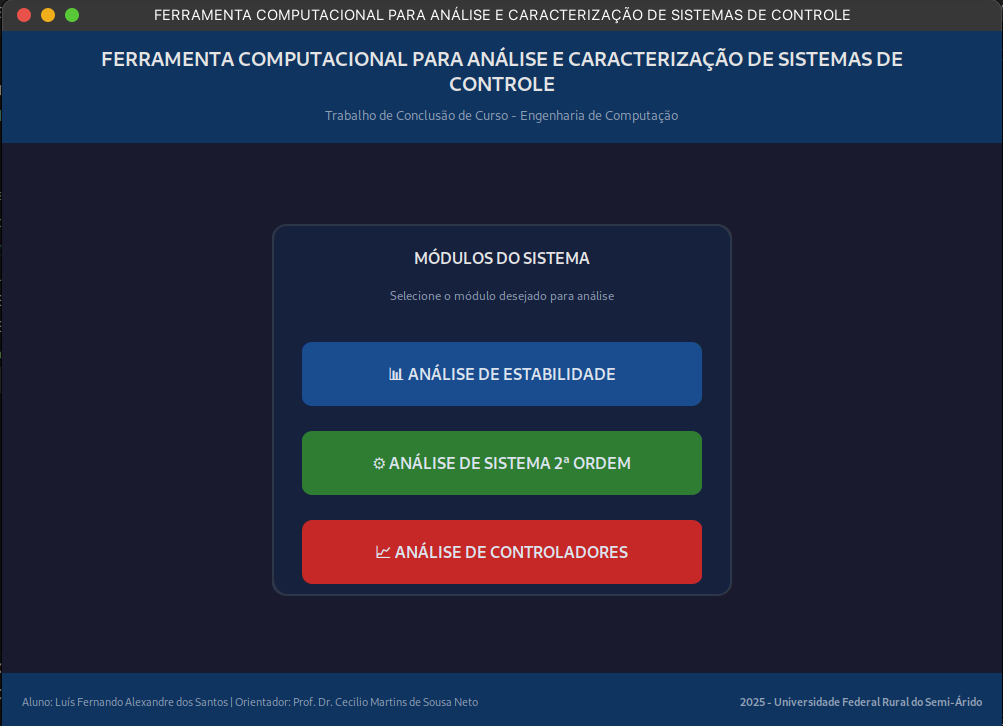
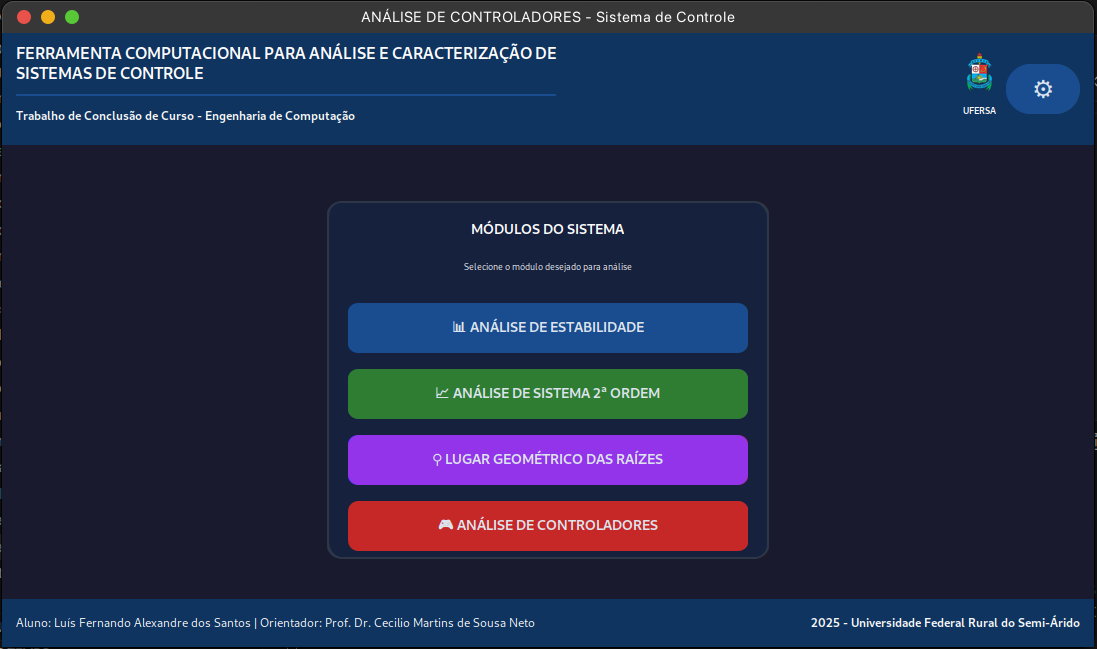
melhorias no Readme

diff --git a/README.md b/README.md
@@ -1,34 +1,77 @@
-# ⚙ Analisador de Sistemas de Controle de Segunda Ordem com PI, PD e PID ⚙
+# ⚙ Ferramenta Computacional para Análise de Sistemas de Controle ⚙
 
 ![Versão Python](https://img.shields.io/badge/python-3.10%2B-blue)
-[![License: MIT](https://img.shields.io/badge/License-MIT-yellow.svg)](https://opensource.org/licenses/MIT) **Trabalho de Conclusão de Curso - Engenharia de Computação**
+[![License: MIT](https://img.shields.io/badge/License-MIT-yellow.svg)](https://opensource.org/licenses/MIT)
+
+**Trabalho de Conclusão de Curso - Engenharia de Computação**
 *Aluno: Luís Fernando Alexandre dos Santos*
 *Orientador: Prof. Dr. Cecilio Martins de Sousa Neto*
 *Universidade Federal Rural do Semi-Árido - 2025*
 
 ## 📜 Descrição Geral
 
-Esta é uma ferramenta computacional desenvolvida em Python com o objetivo de **auxiliar estudantes e profissionais** das áreas de Engenharia (Controle, Computação, Elétrica, Mecatrônica) na **análise e caracterização de sistemas de controle dinâmicos**, com foco em sistemas de segunda ordem e na aplicação de controladores clássicos PI, PD e PID.
+Esta é uma ferramenta computacional desenvolvida em Python com o objetivo de **auxiliar estudantes e profissionais** das áreas de Engenharia (Controle, Computação, Elétrica, Mecatrônica) na **análise, projeto e caracterização de sistemas de controle dinâmicos**.
 
-A aplicação oferece uma interface gráfica intuitiva que permite visualizar o comportamento de sistemas lineares invariantes no tempo (SLITs), avaliar sua estabilidade e entender como diferentes estratégias de controle afetam métricas de desempenho cruciais como **sobressinal (overshoot), tempo de acomodação, tempo de subida e erro em regime permanente**.
+A aplicação oferece uma interface gráfica intuitiva que permite:
+* Analisar a estabilidade de sistemas lineares pelo critério de **Routh-Hurwitz**.
+* Extrair parâmetros de desempenho ($\omega_n$, $\zeta$) de **sistemas de segunda ordem**.
+* Realizar uma análise textual e gráfica completa do **Lugar Geométrico das Raízes (LGR)**.
+* Projetar e simular controladores clássicos **PI, PD e PID**, comparando a resposta temporal, o LGR e o mapa de polos/zeros do sistema original versus o sistema controlado.
 
-## ✨ Screenshots Principais
+## ✨ Módulos Principais
 
-Aqui estão algumas das telas principais da aplicação:
+A ferramenta é dividida em quatro módulos independentes, cada um focado em uma etapa diferente da análise de sistemas de controle.
 
-**1. Tela Principal:** Ponto de entrada onde o usuário seleciona o módulo de análise desejado.
-![Tela Principal](image/tela1.png)
+| Módulo | Screenshot |
+| :--- | :--- |
+| **1. Tela Principal** | ![Tela Principal](image/tela1.png) |
+| **2. Análise de Estabilidade** | ![Análise de Estabilidade](image/tela2.png) |
+| **3. Análise de Sistema 2ª Ordem** | ![Análise de Sistema 2ª Ordem](image/tela3.png) |
+| **4. Lugar Geométrico das Raízes** | *![LGR](image/tela4.png)* |
+| **5. Análise de Controladores** | ![Análise de Controladores](image/tela5.png) |
 
-**2. Análise de Controladores (Resposta Temporal):** Comparativo visual entre o sistema original e o sistema com controlador PI, PD ou PID aplicado.
-![Análise de Controladores - Resposta Temporal](image/tela4-nova.png)
+---
 
-**3. Análise de Estabilidade (Routh-Hurwitz):** Módulo para inserir a equação característica e obter a análise de estabilidade via critério de Routh-Hurwitz.
-![Análise de Estabilidade](image/tela2.png)
+## 🧭 Funcionalidades dos Módulos
 
-**4. Análise de Sistema de 2ª Ordem:** Ferramenta para extrair parâmetros ($\omega_n$, $\zeta$, K) e métricas de desempenho diretamente da função de transferência.
-![Análise de Sistema 2ª Ordem](image/tela3-nova.png)
+A aplicação é dividida em quatro módulos principais, acessíveis pela tela inicial:
 
-*(Adicione mais screenshots se desejar, como LGR e Polos/Zeros)*
+### 1. 📊 Análise de Estabilidade
+* **Objetivo:** Avaliar a estabilidade de um sistema a partir de sua **equação característica**.
+* **Funcionalidade:** Implementa o **Critério de Routh-Hurwitz**, gerando a tabela de Routh formatada e indicando o número de polos instáveis.
+* **Entrada:** Coeficientes do polinômio característico (denominador).
+* **Saída:** Relatório textual completo, incluindo a tabela de Routh, as raízes do polinômio (polos) e uma conclusão clara sobre a estabilidade do sistema.
+
+### 2. ⚙ Análise de Sistema 2ª Ordem
+* **Objetivo:** Extrair parâmetros fundamentais e métricas de desempenho de um sistema de segunda ordem.
+* **Funcionalidade:** Recebe a função de transferência (numerador e denominador) e calcula os parâmetros $\omega_n$ (frequência natural), $\zeta$ (coeficiente de amortecimento) e K (ganho).
+* **Saída:** Relatório textual detalhado com todos os parâmetros, classificação do sistema (subamortecido, etc.) e as métricas de resposta temporal (Tr, Tp, Ts, Mp).
+
+### 3. 📌 Lugar Geométrico das Raízes (LGR)
+* **Objetivo:** Fornecer uma análise completa, textual e gráfica, do LGR de um sistema em malha aberta.
+* **Funcionalidade:** Este módulo dedicado calcula todas as 6 regras de construção do LGR.
+* **Saída:**
+    * **Gráfico Interativo:** Plota os polos, zeros, ramos, segmentos do eixo real e assíntotas.
+    * **Relatório Detalhado:** Gera um relatório de texto completo, formatado de maneira didática, contendo:
+        1.  Polos e Zeros.
+        2.  Segmentos do eixo real que pertencem ao LGR.
+        3.  Cálculo das Assíntotas (centro e ângulos).
+        4.  Pontos de Entrada/Saída (cálculo de dK/ds = 0).
+        5.  Ângulos de Partida e Chegada (para polos/zeros complexos).
+        6.  Análise de **Routh-Hurwitz** para encontrar o **Ganho Crítico (K)** e os pontos de **cruzamento com o eixo jω**.
+
+### 4. 🎮 Análise de Controladores (PI, PD, PID)
+* **Objetivo:** Projetar, simular e comparar o desempenho de um sistema com e sem um controlador.
+* **Funcionalidade:** Permite ao usuário definir a planta G(s), o tipo de entrada (Degrau/Rampa) e os ganhos (Kp, Ki, Kd) do controlador.
+* **Saída:** Uma interface multi-abas com comparativos lado a lado:
+    * **Resposta Temporal:** Gráfico da saída $y(t)$ do sistema original vs. sistema controlado.
+    * **Lugar das Raízes:** Gráfico do LGR de $G(s)$ vs. $G_c(s)G(s)$.
+    * **Polos e Zeros:** Mapa de polos/zeros do sistema *final* (malha fechada).
+    * **Métricas:** Tabela comparativa de desempenho (Tr, Ts, Mp, etc.).
+* **Nova Funcionalidade:** A aba LGR deste módulo permite ao usuário especificar **polos dominantes desejados** (inserindo $\zeta$ e $\omega_n$) e exibe no gráfico a linha de $\zeta$ constante e os polos desejados, auxiliando no projeto do controlador.
+
+---
+
 ## 🧠 Conceitos Teóricos Abordados
 
 A ferramenta se baseia em conceitos fundamentais da Teoria de Controle Clássico:
@@ -37,48 +80,20 @@ A ferramenta se baseia em conceitos fundamentais da Teoria de Controle Clássico
 * **Sistemas de Segunda Ordem:** Sistemas cuja dinâmica é descrita por uma equação diferencial de segunda ordem. A forma padrão em malha fechada é $G(s) = \frac{K \omega_n^2}{s^2 + 2\zeta\omega_n s + \omega_n^2}$, onde:
     * $\omega_n$: Frequência natural (velocidade da resposta).
     * $\zeta$: Coeficiente de amortecimento (forma da resposta: subamortecida, crítica, superamortecida).
-    * $K$: Ganho estático (valor final para entrada degrau unitário, se estável).
-* **Estabilidade:** A capacidade de um sistema retornar a um estado de equilíbrio após uma perturbação. Analisada através de:
-    * **Critério de Routh-Hurwitz:** Método algébrico que verifica a existência de polos (raízes da equação característica) no semiplano direito do plano complexo, indicando instabilidade.
-    * **Lugar Geométrico das Raízes (LGR):** Gráfico que mostra como a localização dos polos de malha fechada varia com o ganho do controlador, permitindo analisar a estabilidade relativa e projetar ganhos.
-    * **Diagrama de Polos e Zeros:** Visualização da localização dos polos e zeros do sistema no plano complexo. Polos no semiplano direito indicam instabilidade.
-    * *(Nyquist: Embora mencionado no código `criterios_estabilidade.py`, a implementação parece focar em Routh e LGR)*
-* **Resposta Temporal:** Comportamento da saída do sistema ao longo do tempo em resposta a uma entrada padrão (Degrau ou Rampa). Métricas importantes incluem:
+* **Estabilidade (Critério de Routh-Hurwitz):** Método algébrico que, a partir da equação característica, determina o número de polos no semiplano direito (indicando instabilidade).
+* **Lugar Geométrico das Raízes (LGR):** Gráfico que mostra como os polos de malha fechada se movem no plano-s à medida que um ganho (K) varia de 0 a $\infty$.
+* **Resposta Temporal:** Comportamento da saída do sistema ao longo do tempo em resposta a uma entrada (Degrau ou Rampa). Métricas importantes incluem:
     * **Tempo de Subida (Tr):** Tempo para a resposta ir de 10% a 90% do valor final.
     * **Tempo de Pico (Tp):** Tempo para atingir o primeiro pico de sobressinal.
     * **Máximo Sobressinal (Mp%):** Percentual máximo que a resposta ultrapassa o valor final.
-    * **Tempo de Acomodação (Ts):** Tempo para a resposta entrar e permanecer dentro de uma faixa (geralmente ±2% ou ±5%) do valor final.
-* **Erro em Regime Permanente ($e_{ss}$):** A diferença entre a entrada desejada e a saída do sistema após um longo tempo. Depende do *tipo* do sistema (número de integradores na malha aberta) e do tipo da entrada (degrau, rampa, etc.).
+    * **Tempo de Acomodação (Ts):** Tempo para a resposta entrar e permanecer dentro de uma faixa (geralmente ±2%) do valor final.
+* **Erro em Regime Permanente ($e_{ss}$):** A diferença entre a entrada desejada e a saída do sistema após um longo tempo.
 * **Controladores PID:**
-    * **Proporcional (P):** Atua proporcionalmente ao erro atual (afeta a velocidade e o erro $e_{ss}$).
-    * **Integral (I):** Atua na integral do erro passado (elimina o erro $e_{ss}$ para entradas degrau, mas pode piorar a resposta transitória).
-    * **Derivativo (D):** Atua na taxa de variação do erro (melhora a estabilidade e a resposta transitória, antecipando o erro).
-    * **Combinações (PI, PD, PID):** Usadas para atender a múltiplos requisitos de desempenho.
+    * **Proporcional (P):** Atua proporcionalmente ao erro atual.
+    * **Integral (I):** Atua na integral do erro passado (elimina o $e_{ss}$ para entradas degrau).
+    * **Derivativo (D):** Atua na taxa de variação do erro (melhora a estabilidade e a resposta transitória).
 
-## 🧭 Módulos da Aplicação (Botões)
-
-A aplicação é dividida em três módulos principais, acessíveis pela tela inicial:
-
-1.  **📊 ANÁLISE DE ESTABILIDADE:**
-    * **Objetivo:** Avaliar a estabilidade de um sistema a partir de sua **equação característica** (denominador da função de transferência de malha fechada).
-    * **Funcionalidade:** Implementa o **Critério de Routh-Hurwitz**, gerando a tabela de Routh e indicando o número de polos instáveis (no semiplano direito). Calcula também as raízes exatas do polinômio. *(Possui placeholders para Nyquist e LGR, mas a análise principal é Routh)*.
-    * **Entrada:** Coeficientes do polinômio característico (denominador).
-    * **Saída:** Relatório textual com a tabela de Routh, conclusão sobre a estabilidade e as raízes calculadas.
-
-2.  **⚙ ANÁLISE DE SISTEMA 2ª ORDEM:**
-    * **Objetivo:** Analisar em detalhes um sistema que *já se sabe* ser de segunda ordem, extraindo seus parâmetros fundamentais e métricas de desempenho.
-    * **Funcionalidade:** Recebe a função de transferência (numerador e denominador) e calcula $\omega_n$, $\zeta$ e K. Com base nesses parâmetros, classifica o sistema (subamortecido, etc.), calcula os polos, as métricas de resposta temporal (Tr, Tp, Ts), as características da resposta ao degrau (Mp, $e_{ss}$) e fornece uma análise de estabilidade com recomendações.
-    * **Entrada:** Coeficientes do numerador e denominador (assumindo denominador de grau 2) e tipo de malha (aberta/fechada para interpretação do ganho).
-    * **Saída:** Relatório textual completo com todos os parâmetros, cálculos, classificações e recomendações.
-
-3.  **📈 ANÁLISE DE CONTROLADORES:**
-    * **Objetivo:** Comparar o comportamento de um sistema original (planta) com o comportamento do mesmo sistema após a adição de um controlador PI, PD ou PID em malha fechada.
-    * **Funcionalidade:** Permite ao usuário definir a planta $G(s)$, escolher o tipo de entrada (Degrau/Rampa), selecionar o controlador ($Gc(s)$ - PI, PD ou PID) e seus ganhos (Kp, Ki, Kd). A aplicação então gera e exibe lado a lado:
-        * **Resposta Temporal:** Gráfico da saída $y(t)$ do sistema original (malha aberta $G(s)$) e do sistema controlado (malha fechada $\frac{Gc(s)G(s)}{1+Gc(s)G(s)}$). Inclui cálculo e exibição das métricas ($\omega_n, \zeta$, Tr, Ts, Mp, Tp) para ambos os casos.
-        * **Lugar das Raízes:** Gráfico do LGR para a malha aberta original $G(s)$ e para a malha aberta com controlador $Gc(s)G(s)$.
-        * **Polos e Zeros:** Diagrama de polos e zeros do sistema em *malha fechada* com o controlador $\frac{Gc(s)G(s)}{1+Gc(s)G(s)}$, com análise textual de estabilidade.
-    * **Entrada:** Coeficientes da planta $G(s)$, tipo de entrada, tipo de controlador, ganhos Kp, Ki, Kd.
-    * **Saída:** Gráficos interativos (com zoom/pan) e análise textual na aba Polos/Zeros.
+---
 
 ## 🛠 Tecnologias Utilizadas
 
@@ -86,9 +101,10 @@ A aplicação é dividida em três módulos principais, acessíveis pela tela in
 * **CustomTkinter:** Para a interface gráfica moderna e responsiva.
 * **Matplotlib:** Para a geração e exibição dos gráficos incorporados na interface.
 * **Control:** Biblioteca Python essencial para análise e projeto de sistemas de controle (criação de TF, `step_response`, `feedback`, `rlocus`, `poles`, `zeros`, `damp`).
-* **NumPy:** Para cálculos numéricos eficientes e manipulação de arrays (vetores de tempo, coeficientes).
-* **SciPy:** Utilizada especificamente para a simulação da resposta à rampa (`scipy.signal.lsim`).
-* **(Opcional) CTkMessagebox:** Para exibir mensagens de sucesso/erro de forma visualmente integrada (se instalada).
+* **NumPy:** Para cálculos numéricos eficientes e manipulação de arrays.
+* **SciPy:** Utilizada para a simulação da resposta à rampa (`scipy.signal.lsim`).
+* **SymPy:** Utilizada para os cálculos simbólicos do LGR, como `dK/ds = 0`, e para a construção da tabela de Routh-Hurwitz com o ganho `k`.
+* **Pillow (PIL):** Necessário pelo `tela.py` para carregar e exibir imagens na interface.
 
 ## 🚀 Como Executar
 
@@ -107,19 +123,19 @@ A aplicação é dividida em três módulos principais, acessíveis pela tela in
     ```
 
 3.  **Instale as dependências:**
-    *(Certifique-se de ter um arquivo `requirements.txt` na raiz do projeto)*
+    *(Certifique-se de ter um arquivo `requirements.txt`)*
     ```bash
     pip install -r requirements.txt
     ```
-    *Exemplo de `requirements.txt`:*
+    *Seu `requirements.txt` deve conter:*
     ```
     customtkinter
     matplotlib
     control
     numpy
     scipy
-    Pillow # Necessário pelo tela.py para carregar imagens
-    CTkMessagebox # Opcional
+    sympy
+    Pillow
     ```
 
 4.  **Execute a aplicação principal (`tela.py`):**
@@ -129,6 +145,4 @@ A aplicação é dividida em três módulos principais, acessíveis pela tela in
 
 ## 📄 Licença
 
-Este projeto é distribuído sob a licença MIT. Veja o arquivo `LICENSE` para mais detalhes. (Se você não tiver um, pode remover esta linha ou adicionar um arquivo LICENSE com o texto da licença MIT).
-
----
+Este projeto é distribuído sob a licença MIT.
